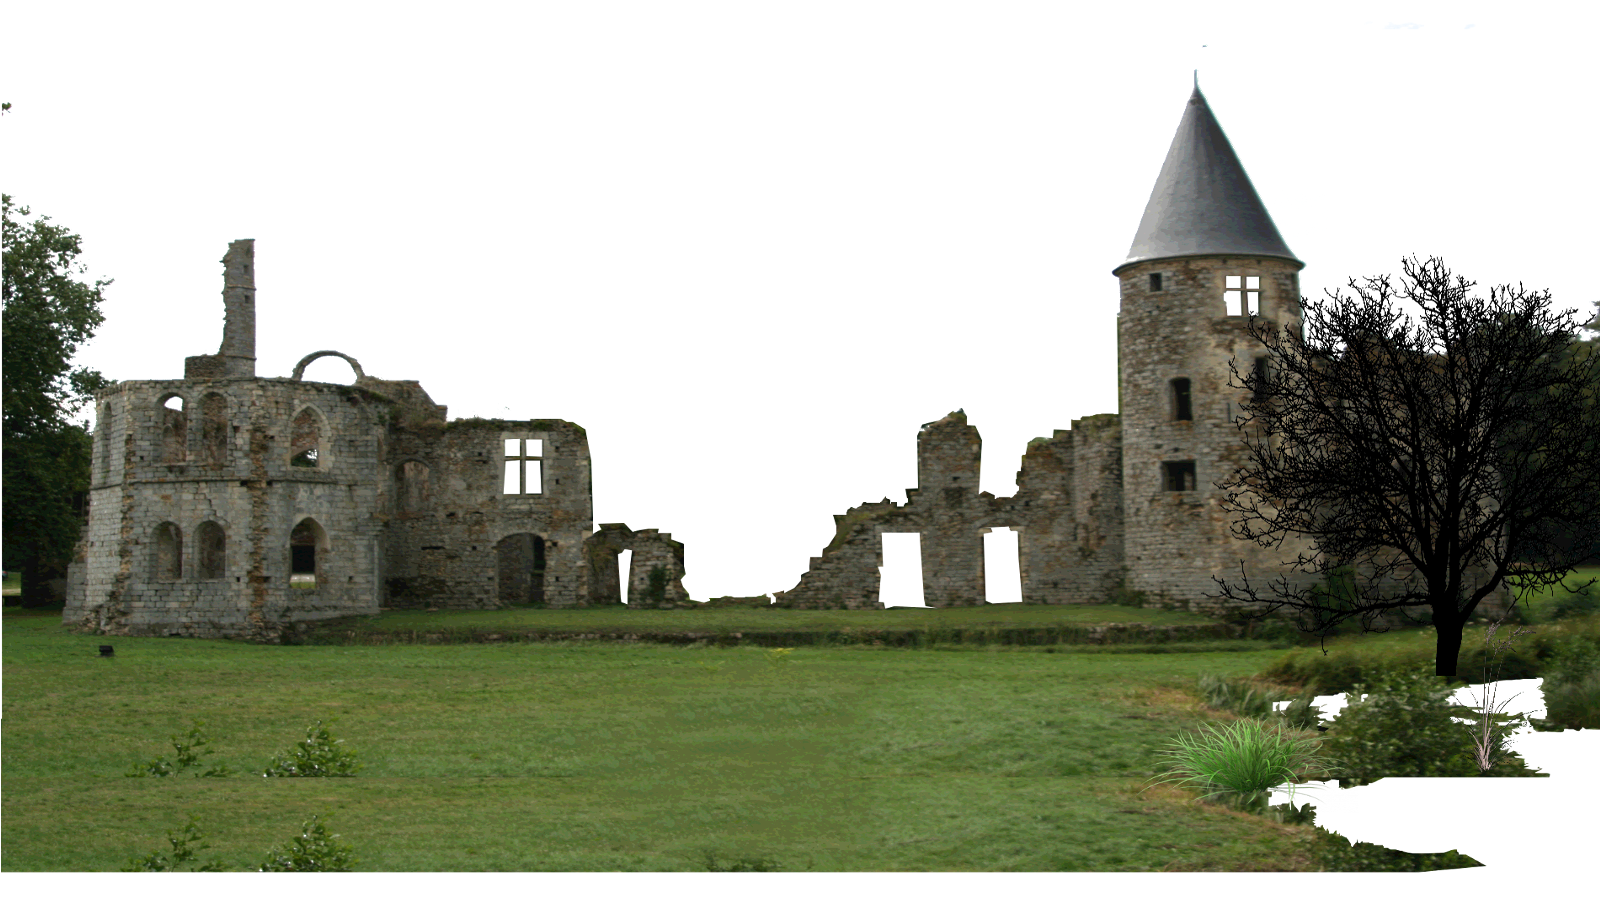
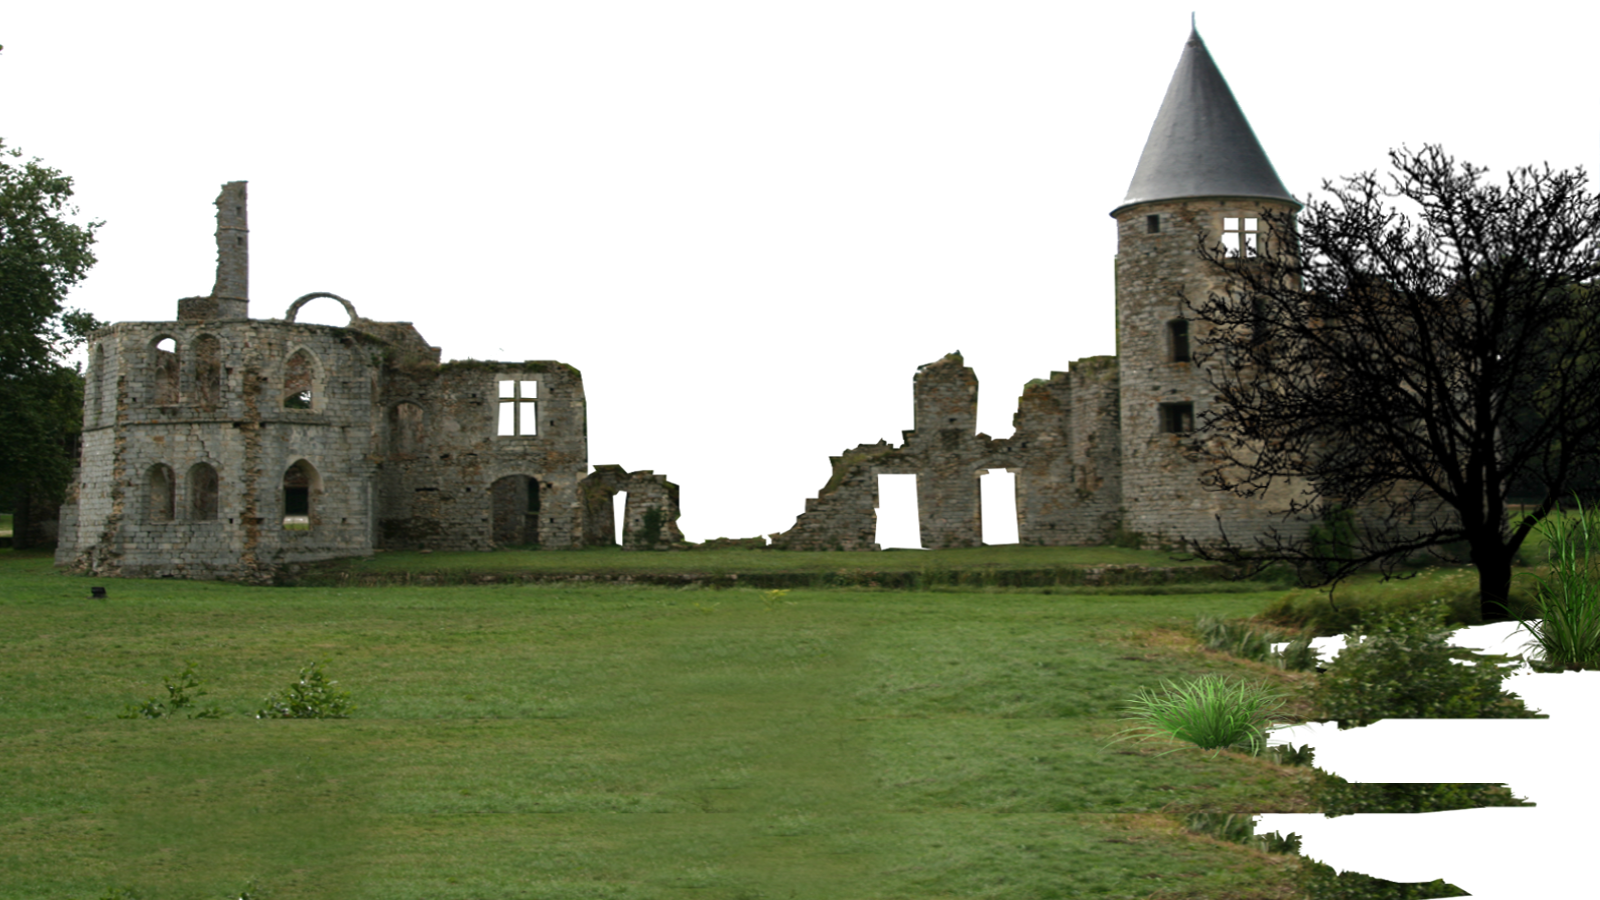
New bg images and fixes
* adapt terrier
* fix z alice
* adapt champi
* fix credit display

diff --git a/js/webcart0n-wonderlands.js b/js/webcart0n-wonderlands.js
@@ -36,6 +36,7 @@
 //TODO Bouche sound
 //TODO Parallax sound
 //TODO Logo + page credit
+//TODO Tout les elements
 
 //PRIO 2
 //TODO precharge les alice dans document complete ?
@@ -76,6 +77,8 @@ var imageStartAngle = false;    // The rotation angle of the image at the start 
 
 var clientSceneSizeX, clientSceneSizeY;
 var shouldUpdateElementsPosition = false;
+
+var terrier_height = "16%";
 
 // hophop ya un debut a tout!
 document.onreadystatechange = function () {
@@ -126,6 +129,11 @@ function bouche_random() {
 
 function affiche_wonderlands(e) {
 
+  //on cache le credits
+  var item = document.getElementById('creditpage');
+  item.style.display = "none";
+
+
   //on cache et stop les bouches
   var item = document.getElementById('bouchecentre');
   item.style.display = "none";
@@ -137,9 +145,10 @@ function affiche_wonderlands(e) {
   document.getElementById('wonderparallax').style.visibility = "visible";
 
   var item = document.getElementById('terrier');
-  item.style.bottom = getClientSceneSizeY()/2 - getSceneSizeY()/2 + "px";
-
-  // on appelle a la main une premiere fois
+  item.style.bottom = getSceneBottom() + "px";
+  item.style.height = (getSceneSizeY()* parseInt(terrier_height)) / 100 + "px";
+  item.onclick = function(){crazyLapinou();};
+  // on appelle parallax_wonderland une premiere fois
   //pour eviter les glitch (de la position fixe des css)
   parallax_wonderland(e);
 
@@ -147,8 +156,6 @@ function affiche_wonderlands(e) {
   //TODO precharge les alice dans document complete ?
   affiche_les_alices();
   affiche_les_champis();
-
-  document.getElementById('terrier').onclick = function(){crazyLapinou();};
   
   shouldUpdateElementsPosition = true;
 }
@@ -204,7 +211,7 @@ function affiche_les_alices()
 				{
 				  //on start display div front
 					var divIndex = this.id.substring(5); // alpha.lenght
-					document.getElementById("alice"+divIndex).style.zIndex = 1001;
+					document.getElementById("alice"+divIndex).style.zIndex = 2001;
 				},
 			drag: function()
 				{
@@ -251,7 +258,7 @@ function affiche_les_alices()
     newElemAlpha.style.left = alice_bank[i].left;
     newElemAlpha.style.width = alice_bank[i].width;
     //newElemAlpha.style.height : see after <img> creation
-    newElemAlpha.style.zIndex = 1000;
+    newElemAlpha.style.zIndex = 2000;
     newElemAlpha.style.backgroundPosition = "0,0";
     newElemAlpha.id = "alpha" + i;
     	  
@@ -288,7 +295,7 @@ var champi_bank = [
 {name:"champi", url:'./res/mushroom_KENGYBORGESRODRIGUES.gif', zindex:100, bottom:"10", top:"auto",  right:"30%", left:"auto", width: "100px", height:"auto" },
 {name:"champi", url:'./res/mushroom_KENGYBORGESRODRIGUES02.gif', zindex:501, bottom:"8", top:"auto",      right:"auto", left:"17%", width: "240px", height:"auto" },
 {name:"champi", url:'./res/mushroom_vrai.gif', zindex:100, bottom:"22", top:"auto",  right:"auto", left:"5%", width: "100px", height:"auto" },
-{name:"champi", url:'./res/mushroom.gif', zindex:100, bottom:"26", top:"auto",           right:"auto", left:"30%", width: "100px", height:"auto" }
+{name:"champi", url:'./res/mushroom.gif', zindex:100, bottom:"32", top:"auto",           right:"auto", left:"50%", width: "100px", height:"auto" }
 ];
 
 function affiche_les_champis() {
@@ -305,6 +312,7 @@ function affiche_les_champis() {
     newElemAlpha.style.zIndex = 1000;
     newElemAlpha.style.backgroundPosition = "0,0";  
     newElemAlpha.onclick = function(){crazyLapinou();};
+    newElemAlpha.id = "alpha" + i;
 
     var newElemDiv = document.createElement("div");
     newElemDiv.setAttribute("class", "champi");
@@ -315,7 +323,8 @@ function affiche_les_champis() {
     newElemDiv.style.width = champi_bank[i].width;
     newElemDiv.style.height = champi_bank[i].height;
     newElemDiv.style.zIndex = champi_bank[i].zindex;
-
+    newElemDiv.id = "champ" + i;
+    
     var newElemImg = document.createElement("img");
     newElemImg.src = champi_bank[i].url;
     newElemDiv.appendChild(newElemImg);
@@ -456,17 +465,30 @@ function updateElementsPosition()
   //update terrier position
   var item = document.getElementById('terrier');
   item.style.bottom = getSceneBottom() + "px";
+  item.style.bottom = getSceneBottom() + "px";
+  item.style.height = (getSceneSizeY()* parseInt(terrier_height)) / 100 + "px";
   //update alices' position (alphas included)
   var alice_elements = document.getElementsByClassName('alice');
   for (var i = 0; i < alice_elements.length; ++i)
   {
     var item = alice_elements[i];
     var divIndex = item.id.substring(5); // alpha.lenght
-//    console.log(getSceneBottom() + (getSceneSizeY()* alice_bank[divIndex].bottom)/100 + "px");
     item.style.bottom = getSceneBottom() + (getSceneSizeY()* alice_bank[divIndex].bottom)/100 + "px";
+    //if dragged, x pos in pixel (right/left)
+ //   if(item.style.right.indexOf("px")
+ //     item.style.right = getSceneBottom() + (getSceneSizeY()* alice_bank[divIndex].bottom)/100 + "px";
+ //   item.style.
+  }
+
+  //update champi' position (alphas included)
+  var champi_elements = document.getElementsByClassName('champi');
+  for (var i = 0; i < champi_elements.length; ++i)
+  {
+    var item = champi_elements[i];
+    var divIndex = item.id.substring(5); // alpha.lenght
+    item.style.bottom = getSceneBottom() + (getSceneSizeY()* champi_bank[divIndex].bottom)/100 + "px";
  
  //   item.style.
-
   }
 
 }

diff --git a/index.html b/index.html
@@ -50,7 +50,7 @@
 <h3>TItre plus petit</h3>
 <p>nouveau paragraphe avec du texte dedans, nouveau paragraphe avec du texte dedans,nouveau paragraphe avec du texte dedans,
 nouveau paragraphe avec du texte dedans,nouveau paragraphe avec du texte dedans,nouveau paragraphe avec du texte dedans,
-<a href"http://www.monadresse.com" target="new">un lien vers monadresse.com</a>nouveau paragraphe avec du texte dedans,nouveau paragraphe 
+<a href"http://www.monadresse.com">un lien vers monadresse.com</a>nouveau paragraphe avec du texte dedans,nouveau paragraphe 
 avec du texte dedans,
 </p>
 </div>

diff --git a/style/webcartoon-wonderlands.css b/style/webcartoon-wonderlands.css
@@ -185,13 +185,11 @@ cursor: pointer; /* move */
 
 #terrier
 {
-/*test posi >>>*/
   position: absolute;
-/*test posi <<<   position: fixed;*/
-  width: 10%;
-  height: 7%;
+  width: 12%;
+/*  height: 16%; fixed in js */ 
   bottom: 0%;
-  left: 2%;
+  left: 3%;
   
   background-color: yellow;
 /*  bac */
@@ -214,3 +212,16 @@ cursor: pointer; /* move */
 	width: 100%;
 }
 
+
+
+/******************************************/
+/******** CREDIT ***************************/
+/******************************************/
+
+#creditpage
+{
+  position: fixed;
+  top: 0px;
+  left: 0px;
+  
+}
